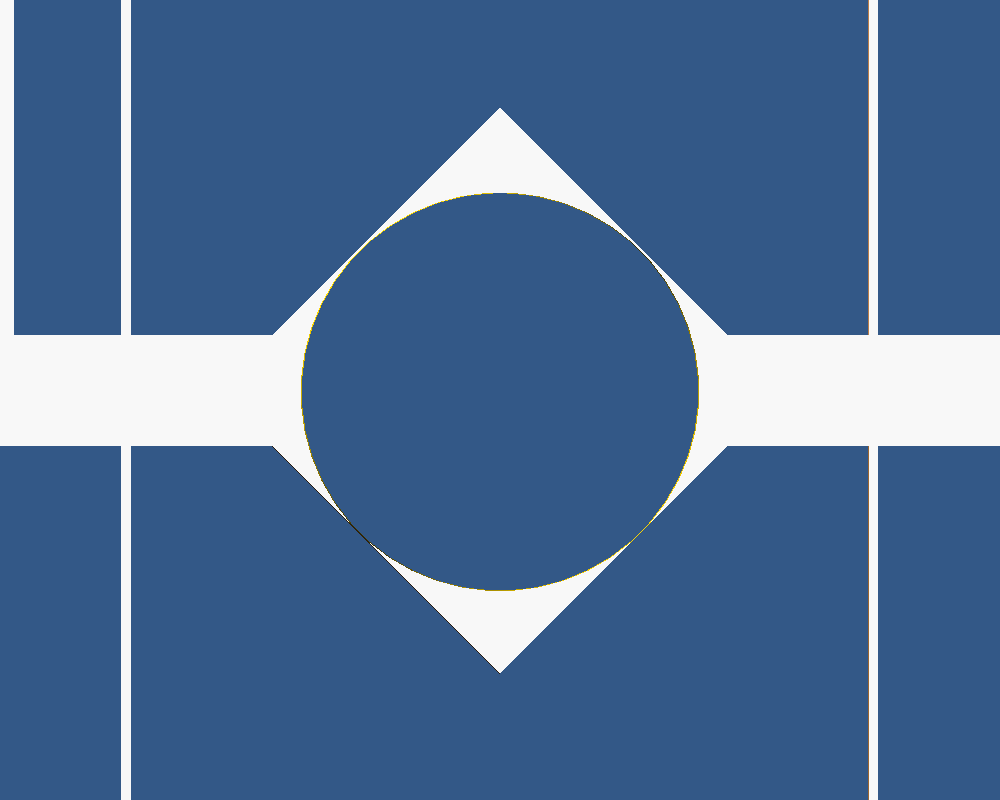
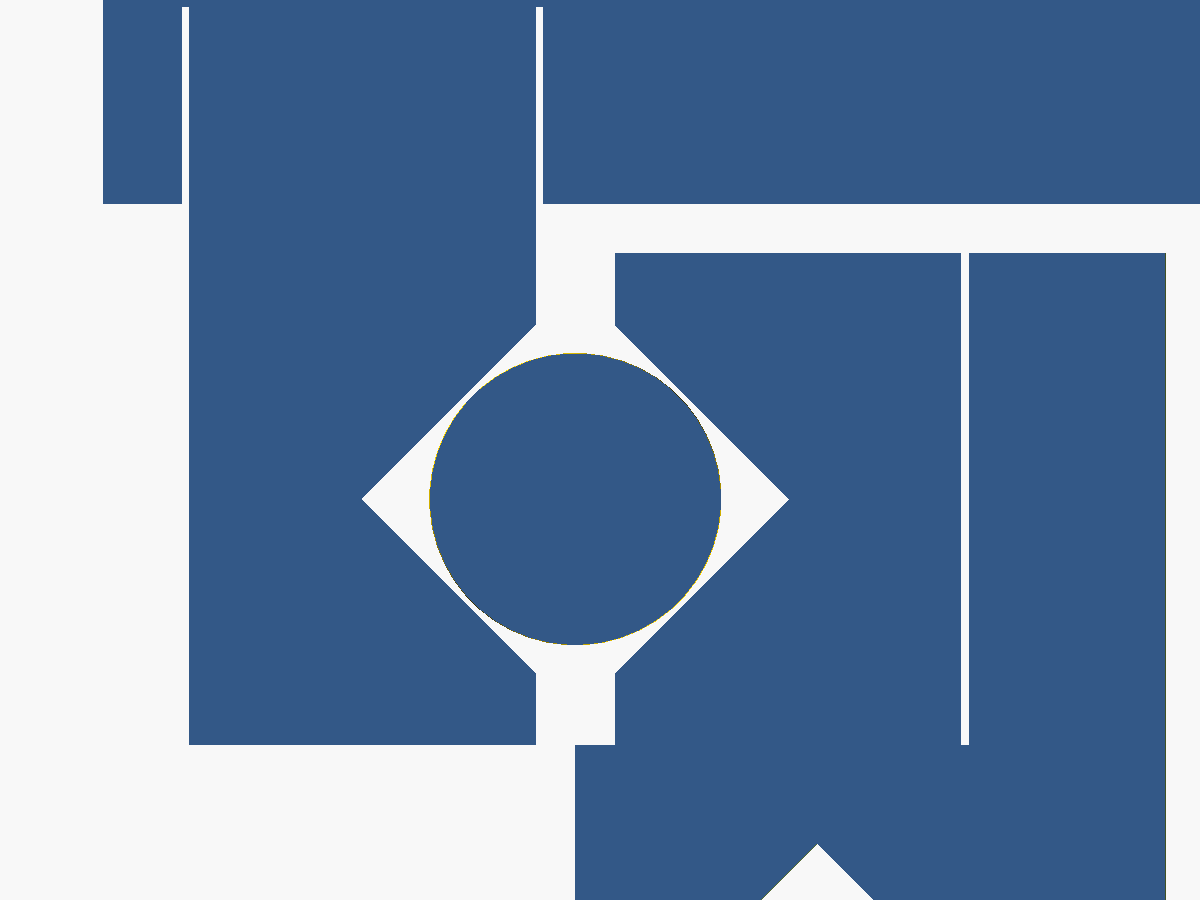
Rolamento: anel externo com chavetas laterais (fundo plano, monta na bancada); README e corte novos
Claude-Session: https://claude.ai/code/session_01MAT7JDWnQKaVFjLoye9FdL

diff --git a/artilharia/README.md b/artilharia/README.md
@@ -169,7 +169,7 @@ Ficaram como estavam, porque já têm folga boa:
 - o pistão no cilindro (0,25 por lado);
 - a quilha no rasgo (0,2);
 - o eixo sextavado girando nos mancais (0,2 por lado);
-- os anéis de pista nos assentos (0,15);
+- os anéis do rolamento nas sedes (0,15) e as BBs no canal (~0,1 de jogo);
 - as capas dos punhos no pino (0,25);
 - os projéteis no cano (0,15) e nos casulos (0,25);
 - o pino pivô: Ø8 justo na mesa (Ø8,3), para servir de guia, e solto na base (Ø8,8).
@@ -214,7 +214,7 @@ A estimativa usa volume e área de cada STL (±15%).
 | base (bandeja com janelas, 10 casulos, plataforma vazada, pilar do ponteiro) | 226 g | **~167 g** |
 | mesa (assento do carro, aro dentado, copo, raios, faixa da escala) | 103 g | **~82 g** |
 | carro (disco central, bochechas em treliça, mancais) | 93 g | **~66 g** |
-| 2 anéis de pista | 52 g | ~44 g |
+| rolamento (3 anéis) | — | — |
 | setor de elevação raiado (−20° a +85°) | 43 g | ~33 g |
 | culatra + cano | 84 g | ~61 g |
 | 10 projéteis (40 partes) | 27 g | ~21 g |
@@ -272,7 +272,7 @@ Cianoacrilato (Super Bonder) também cola, mas fica quebradiço com as pancadas 
   - o **aro dentado**, 6 mm abaixo do pé do dente;
   - a **faixa da escala** atrás.
 - **Fino:**
-  - o **copo** que abraça o anel de pista (9,2 mm);
+  - o **copo** que abraça o topo do anel interno do rolamento (9,2 mm);
   - **6 raios** de 9 × 7 mm. Engrossaram em relação à v8, porque agora levam o peso do carro do centro até o anel das esferas.
 - **Faixa da escala (contrapeso):** um arco de **110°** atrás, do lado oposto aos dentes.
   - Tem os **graus gravados no topo** e 10 bolsões por baixo, com teto de 2,4 mm.
@@ -315,35 +315,39 @@ Peça: `punho_armar` (imprima em pé, com a tampa para cima).
 
 ## Sem nada comprado além das BBs e da mola
 
-### Rolamento impresso (substitui o 608)
-A pista da mesa são **dois anéis impressos** (`anel_pista_base` e `anel_pista_mesa`), com um canal em V de 90°.
-As **BBs de 6 mm** rolam entre eles.
-- **Encaixe:** o anel de baixo tem **8 dentes para baixo**, que entram em rasgos da base. O de cima tem **8 dentes para cima**,
-  que entram em rasgos da mesa. Assim os anéis não giram nem saem do centro, e a folga no assento é de 0,15 mm.
-- **Por que dispensa o 608:** uma esfera presa entre dois canais em V funciona como um **rolamento de contato angular**.
-  Ela segura o peso e também **centraliza** a mesa. O `pino_pivo` passa folgado (Ø8 num furo de Ø8,8) e serve só de guia
-  na montagem.
-- **Se gastar:** depois de muito uso, imprima só os dois anéis de novo.
-
-**Conferido com a BB real de 5,95 mm** (corte abaixo: anel de baixo, BB e anel de cima):
+### Rolamento de esferas impresso (contato em 4 pontos)
+É um **rolamento de verdade**: um **anel menor dentro de um anel maior**, com as BBs **presas** no canal entre os dois.
+É o mesmo tipo de rolamento das mesas giratórias de guindastes e de torres: segura o peso, o esforço de lado e a alavanca do cano.
 
 ![corte do rolamento](rolamento_corte.png)
 
-- Cada anel tem um canal em V de 90°, com **3,4 mm de profundidade** e **6,8 mm de boca**.
-  A BB tem 5,95 mm, então **não cabe inteira num anel só**: ela fica **3,8 mm para fora** do anel de baixo, e o anel de cima pousa por cima dela.
-- **Os anéis não se tocam:** ficam separados por **1,6 mm**. A BB encosta nas **4 faces inclinadas**, 2 em cima e 2 embaixo,
-  1,3 mm para dentro da face de cada anel. É isso que centraliza a mesa.
-- **Na boca do canal**, a BB tem 5,73 mm de largura, contra 6,8 mm de boca. Mesmo com o "pé de elefante" estreitando a boca, ela entra solta.
-- **Quantas BBs:** cabem 60 encostadas umas nas outras. **Com 52 sobra ~0,9 mm entre elas**, e assim elas rolam sem raspar uma na outra.
-- **BB de 6,00 contra 5,95:** com a de 5,95 a mesa fica só 0,07 mm mais baixa. Isso não muda nenhuma folga do canhão.
-- **Montagem:**
-  1. Passe uma camada fina de **vaselina** no canal do anel de baixo. Ela segura as BBs no lugar enquanto você monta, e o giro fica mais macio.
-  2. Distribua as 52 BBs.
-  3. Pouse o **anel de cima sobre as BBs**, com o canal para baixo.
-  4. Só então desça a mesa, encaixando os 8 dentes do anel nos rasgos dela.
-  - Se você puser o anel na mesa e virar a mesa, ele pode cair do rebaixo.
-- **Teste antes de tudo:** imprima só os dois anéis, ponha as BBs, pouse um sobre o outro e gire com a mão.
-  Tem que girar liso, sem raspar face com face.
+**Corte (da esquerda para a direita):**
+- **Anel interno:** sobe e entra na mesa.
+- **BB:** no canal entre os anéis.
+- **Anel externo:** assentado na sede da base.
+
+**As peças:**
+| Peça | Onde fica | Encaixe |
+|---|---|---|
+| `anel_interno` (Ø98 a Ø112) | preso **na mesa, por cima** | 8 dentes para cima, que entram em rasgos largos da mesa |
+| `anel_externo_baixo` (Ø116 a Ø130) | preso **na base, por baixo** | 8 chavetas na lateral, que descem nos rasgos da parede da sede |
+| `anel_externo_cima` | colado em cima do `anel_externo_baixo` | a parede da sede da base centraliza as duas metades |
+
+**Como as BBs ficam presas:**
+- Cada anel tem um **canal em V de 90°** virado para o outro: o interno por fora, o externo por dentro.
+  A BB encosta nos **4 flancos**, 2 de cada anel, a 45°. É isso que segura o peso, o esforço de lado e a alavanca.
+- **Entre os dois anéis sobra um vão de só 1,6 mm.** A BB de 5,95 mm não passa por ele.
+  Por isso ela não sai nem para cima nem para baixo, e os anéis não se separam.
+- **Folga:** o canal foi desenhado para uma esfera de 6,15 mm. Com BB de 5,95 sobra ~0,1 mm de jogo, e a BB roda solta, sem prender.
+- **Por que o anel externo tem 2 metades:** é o único jeito de pôr as BBs dentro de um rolamento com o anel interno já no lugar.
+  A divisão fica bem no meio do canal. Você põe as BBs com a metade de cima fora e depois fecha.
+- **Vão entre a coroa e a base: 1 mm.** O topo do anel externo fica rente ao topo da base, 1 mm abaixo da mesa.
+  O peso da mesa e do canhão passa **todo pelo rolamento**: mesa → anel interno → BBs → anel externo → base.
+- **52 BBs:** sobra ~0,9 mm entre elas, e elas rolam sem raspar uma na outra.
+- **Impressão:**
+  - todos os flancos do V ficam a 45°, então nenhum anel precisa de suporte;
+  - cada anel já sai na posição certa no arquivo;
+  - imprima com **4 paredes e 100%**.
 
 ### Sem parafusos
 | Onde era parafuso | Agora | Por que não espana |
@@ -359,7 +363,7 @@ Cada peça já sai na orientação de impressão.
 
 | Grupo | Peças |
 |---|---|
-| Base e mesa | `base`, `mesa`, `anel_pista_base`, `anel_pista_mesa`, `pino_pivo` |
+| Base e mesa | `base`, `mesa`, `anel_interno`, `anel_externo_baixo`, `anel_externo_cima`, `pino_pivo` |
 | Carro | `carro`, `roda_el`, `ponteiro_el`, `ponteiro_az` (encaixa no pilar da base) |
 | Pontaria | `rosca_az`, `rosca_el`, `manivela_az`, `manivela_el`, `eixo_az`, `eixo_el`, `eixo_munhao` |
 | Lançador | `culatra` (frente para baixo, com suportes), `tampa`, `amortecedor` (TPU), `pistao`, `cano`, `pinhao_armar`, `coroa_armar`, `rosca_armar`, `volante_armar`, `eixo_pinhao`, `eixo_armar`, `gatilho`, `pino_gatilho`, `soquete`, `porta_projeteis` |
@@ -368,7 +372,7 @@ Cada peça já sai na orientação de impressão.
 
 **Comprar:** ~52 BBs de 6 mm e 1 mola 1,0×12×100. Mais nada.
 
-**Imprima os anéis de pista com 4 paredes e 100%.**
+**Imprima os 3 anéis do rolamento com 4 paredes e 100%.**
 
 ## Montagem passo a passo
 
@@ -390,15 +394,21 @@ Cada peça já sai na orientação de impressão.
 Imprima primeiro a placa das peças pequenas. Passe o `eixo_el` na `rosca_el` e estale uma `trava_6` num canal do eixo.
 Se a rosca entrar sem forçar e a trava estalar e ficar firme, as folgas estão certas para a sua impressora.
 
-### 1. Base: rosca de azimute e anel de baixo
-1. **Rosca:** deite a `rosca_az` na calha, entre os dois mancais de dentro.
-2. **Eixo:** passe o `eixo_az` pelo lado da manivela, atravessando o mancal externo, o mancal de dentro, a rosca e o outro mancal.
-3. **Travas:** encaixe uma `trava_6` no canal da ponta, depois do último mancal, e outra no canal logo depois do mancal externo.
-   Para encaixar, encoste a boca da trava no canal e empurre de lado até estalar.
-4. **Manivela:** ponha a `manivela_az` no sextavado, com o tambor virado para o mancal, e a 3ª trava no canal de fora.
-   Estale o `punho` no pino. Ele tem que girar solto.
-5. **Anel de baixo:** encaixe o `anel_pista_base` no rebaixo da base, com o **canal para cima** e os 8 dentes nos rasgos.
-6. **Confira:** gire a manivela. A rosca tem que girar inteira, sem raspar.
+### 1. Rolamento (monte na bancada, numa mesa lisa)
+O fundo do `anel_interno` e o fundo do `anel_externo_baixo` ficam no **mesmo plano**. Em cima de uma mesa lisa,
+os dois já ficam na altura certa para as BBs entrarem.
+1. **Anéis na mesa:** ponha o `anel_externo_baixo` deitado na mesa e o `anel_interno` dentro dele, com os dentes para cima.
+2. **Vaselina:** passe uma camada fina nos dois canais. Ela segura as BBs enquanto você monta e deixa o giro macio.
+3. **BBs:** distribua as **52 BBs** no canal entre os dois anéis. Elas assentam sozinhas nos flancos de baixo.
+   Espalhe por igual, deixando o mesmo espacinho entre todas.
+4. **Metade de cima:**
+   - passe **3 ou 4 gotinhas de cola instantânea** na face de cima do `anel_externo_baixo`, só na borda de fora, longe do canal;
+   - encaixe o `anel_externo_cima` por cima, com o flanco para baixo, alinhando as bordas de fora;
+   - aperte com os dedos por alguns segundos.
+5. **Confira:** gire o anel interno com a mão. Tem que girar liso, sem prender, e **não pode sair** quando você puxa.
+   O rolamento agora é uma peça só, com as BBs presas dentro.
+6. **Na base:** desça o rolamento na sede da base, com as 8 chavetas de fora entrando nos rasgos da parede.
+   O anel interno fica pendurado nas BBs, 1 mm acima dos raios da base.
 
 ### 2. Mesa e carro (colados)
 1. **Pino pivô:** ponha o `pino_pivo` no furo central da mesa, de cima para baixo. A cabeça entra no rebaixo da espiga.
@@ -407,24 +417,26 @@ Se a rosca entrar sem forçar e a trava estalar e ficar firme, as folgas estão 
    - lixe as faces (assento, espiga e o fundo do disco do carro) e limpe com álcool;
    - passe **epóxi** no assento e na espiga, encaixe o carro e aperte;
    - limpe o excesso e deixe curar o tempo da embalagem, com a mesa deitada.
-4. **Anel de cima:**
-   - vire a mesa de cabeça para baixo e encaixe o `anel_pista_mesa` no rebaixo de baixo dela, com o **canal para fora** e os dentes nos rasgos;
-   - prenda com **3 ou 4 gotinhas de cola instantânea** nos dentes.
-   - **Por que colar o anel:** na hora de descer a mesa, a coroa já engrena na rosca antes do anel entrar nos rasgos. Aí não dá mais para girar a mesa e achar os rasgos.
 
-### 3. Rolamento e descida da mesa
-1. Passe uma camada fina de **vaselina** no canal do anel de baixo e distribua as **52 BBs** por igual.
-2. **Ponteiro fora:** o `ponteiro_az` **ainda não vai**. Ele encaixa depois, senão a faixa da escala bate nele.
-3. **Posição:** segure a mesa com o carro em cima da base, com:
-   - a **faixa da escala virada para trás**, de modo que o **pilar da base fique entre os dois ressaltos** das pontas da faixa;
-   - os **dentes na frente**, sobre a rosca;
-   - o **pino pivô** sobre o furo do centro.
-4. **Desça devagar.** Quando os dentes tocarem a rosca, gire **de leve** a manivela de azimute para um lado e para o outro até eles entrarem.
-   Deixe a mesa pousar nas BBs.
-5. **Ponteiro:** encaixe o `ponteiro_az` no furo quadrado do topo do pilar, com a agulha virada para a escala.
+### 3. Descida da mesa (antes da rosca de azimute)
+A rosca de azimute entra **depois** da mesa. Assim a mesa ainda gira solta na hora de descer.
+1. **Alinhe os dentes:** gire o anel interno até o **pilar da base ficar bem no meio entre dois dentes** dele.
+2. **Posição:**
+   - o **ponteiro ainda fora**, senão a faixa da escala bate nele;
+   - a mesa com a **faixa da escala para trás** e o **pilar entre os dois ressaltos** das pontas da faixa;
+   - os dentes da coroa na frente.
+3. **Desça devagar.** O pino pivô entra no furo do centro da base, e os dentes do anel interno entram nos rasgos da mesa.
+   Os rasgos são largos, então não precisa acertar exato. Se a mesa não assentar, gire-a uns poucos graus para um lado e para o outro.
+   Ela pousa no anel interno e fica **1 mm acima da base**, sem encostar.
+4. **Ponteiro:** encaixe o `ponteiro_az` no furo quadrado do topo do pilar, com a agulha virada para a escala.
+5. **Rosca de azimute:**
+   - deite a `rosca_az` na calha, entre os dois mancais de dentro, girando a mesa de leve até os dentes da coroa entrarem no filete;
+   - passe o `eixo_az` pelo lado da manivela, atravessando o mancal externo, o mancal de dentro, a rosca e o outro mancal;
+   - encaixe uma `trava_6` no canal da ponta e outra logo depois do mancal externo (encoste a boca da trava no canal e empurre de lado até estalar);
+   - ponha a `manivela_az`, a 3ª trava e estale o `punho`.
 6. **Confira:**
-   - gire a manivela de azimute de ponta a ponta: tem que ir de −50° a +50° liso e parar firme em ±52°, no pilar;
-   - **a mesa não pode raspar na parede da base em nenhum ponto.**
+   - gire a manivela de ponta a ponta: tem que ir de −50° a +50° liso e parar firme em ±52°, no pilar;
+   - **a mesa não pode raspar na base em nenhum ponto.**
 
 ### 4. Elevação
 1. **Rosca:** coloque a `rosca_el` entre os dois mancais de dentro do carro.
